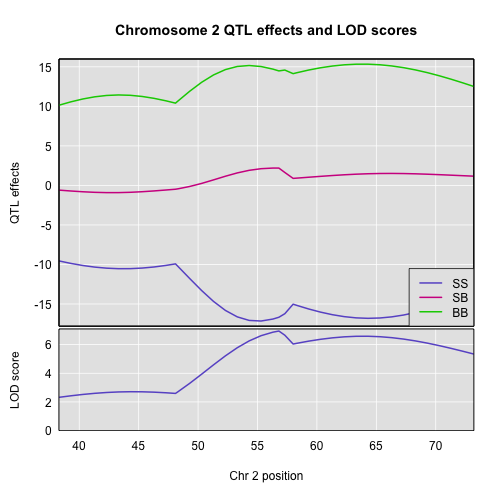
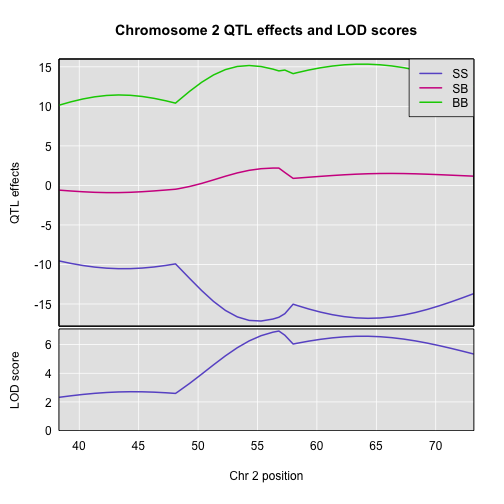
fix format errors

Changed region(s): [[0.8036, 0.119, 0.9524, 0.2381], [0.8036, 0.5357, 0.9524, 0.6548]]

diff --git a/_episodes/11-est-qtl-effects.md b/_episodes/11-est-qtl-effects.md
@@ -27,11 +27,14 @@ is the mean phenotype value, <i>&beta;<sub>k</sub></i> is the effect of the
 <i>kth</i> genotype, <i>X<sub>jk</sub></i> is the genotype for individual j, and &epsilon;<sub>j</sub> is the error for the <i>j</i>th individual. In the figure 
 below, &mu; equals 94.6, and &beta; equals 
 15.4 for the alternative hypothesis 
-(QTL exists). This linear model is <i>y</i> = 94.6 + 
+(QTL exists).
+
+![](../fig/nullvalt.png)
+
+This linear model is <i>y</i> = 94.6 + 
 15.4X + &epsilon;. The model intersects the 
 genotype groups at their group means, and is based on &mu; and 
-<i>&beta;<sub>k</sub></i> for chromosome 2 marker D2Mit17 located at 
-`56.8 cM.  
+<i>&beta;<sub>k</sub></i> for chromosome 2 marker D2Mit17 located at 56.8 cM.  
 
 The effect of genotype BB (the &beta; for the 
 BB genotype) at marker D2Mit17 is 
@@ -113,7 +116,7 @@ coefficients to plot. Add `scan1_output` to include a LOD plot at the bottom.
 ~~~
 plot_coef(c2eff, map, columns = 1:3, scan1_output = out, 
           main = "Chromosome 2 QTL effects and LOD scores",
-          legend = "bottomright")
+          legend = "topright")
 ~~~
 {: .r}
 
@@ -214,16 +217,11 @@ Here's a plot of the estimates.
 
 
 ~~~
-plot_coef(c2eff_pg, map, columns = 1:3, col = colors, scan1_output = out_pg_loco, main = "Chromosome 2 QTL effects and LOD scores", legend = "bottomright")
+plot_coef(c2eff_pg, map, columns = 1:3, scan1_output = out_pg_loco, main = "Chromosome 2 QTL effects and LOD scores", legend = "topright")
 ~~~
 {: .r}
 
-
-
-~~~
-Error in plot_coef(x, map, columns = columns, col = col, scan1_output = NULL, : Need at least 3 colors
-~~~
-{: .error}
+<img src="../fig/rmd-11-plot_effects_pg_liver_c2-1.png" title="plot of chunk plot_effects_pg_liver_c2" alt="plot of chunk plot_effects_pg_liver_c2" style="display: block; margin: auto;" />
 
 You can also get estimated additive and dominance effects, using a matrix of contrasts.
 
@@ -310,23 +308,23 @@ plot_pxg(g, iron$pheno[,"liver"], SEmult=2, swap_axes=TRUE, xlab="Liver phenotyp
 
 
 > ## Challenge 1
-> Find the QTL effects for chromosome 16 for the liver phenotype.
+> Find the QTL effects for chromosome 16 for the liver phenotype.  
 > 1) Create an object `c16eff` to contain the effects.  
 > 2) Plot the chromosome 16 coefficients and add the LOD plot at bottom.
 >
 > >
 > > ## Solution to Challenge 1
-> > `c16eff <- scan1coef(pr[,"16"], iron$pheno[,"liver"])`
-> > `plot_coef(c16eff, map, legend = "topright", scan1_output = out)`
+> > 1) `c16eff <- scan1coef(pr[,"16"], iron$pheno[,"liver"])`  
+> > 2) `plot_coef(c16eff, map, legend = "topright", scan1_output = out)`
 > {: .solution}
 {: .challenge}
 
 > ## Challenge 2
 > In the code block above, we use `swap_axes=TRUE` to place the phenotype
 > on the x-axis. 
-> We can use `SEmult=2` to include the mean ± 2 SE intervals.
+> We can use `SEmult=2` to include the mean ± 2 SE intervals.  
 > 1) How would you decide which chromosome to plot? Discuss this with 
-> your neighbor, then write your responses in the collaborative document.
+> your neighbor, then write your responses in the collaborative document.  
 > 2) Calculate and plot the best linear unbiased predictors (blups) for
 > spleen on the chromosome of your choice.
 >
